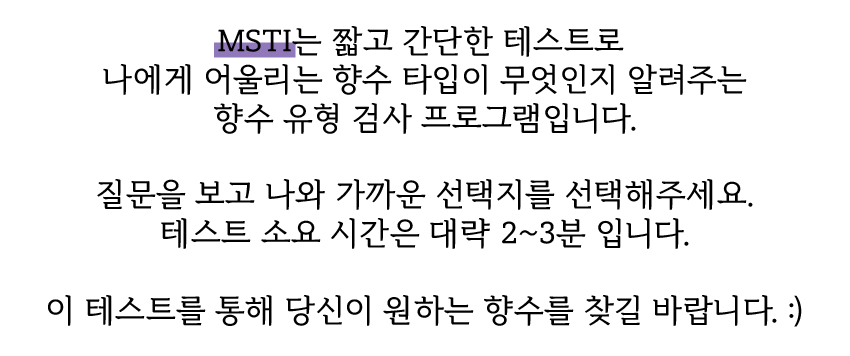
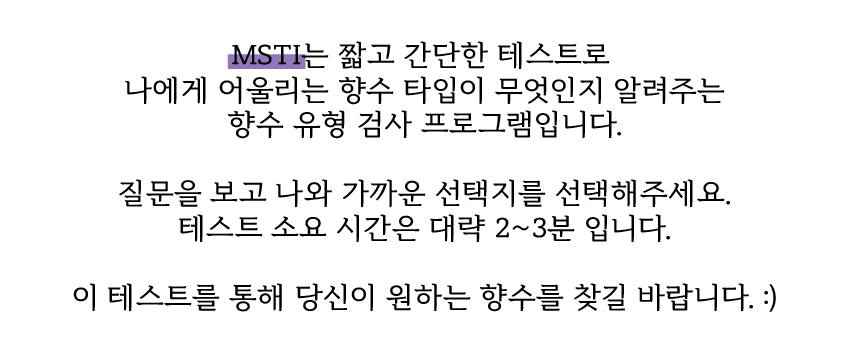
시작 화면 버튼 디자인 변경

Changed region(s): [[0.1224, 0.0618, 0.8871, 0.4017], [0.1224, 0.4944, 0.8871, 0.7107], [0.0612, 0.8034, 0.9482, 0.927]]

diff --git a/main.py b/main.py
@@ -42,7 +42,7 @@ class MainWindow(QMainWindow):
 
         # creating a button widget
         self.startBtn = QLabel('', self)
-        self.startBtn.setPixmap(QPixmap('image/TestStartBtn.png'))
+        self.startBtn.setPixmap(QPixmap('image/testStart_btn.png'))
         self.startBtn.resize(200, 75)
         self.startBtn.move(530, 380)
         self.startBtn.setAlignment(Qt.AlignCenter)
@@ -50,7 +50,7 @@ class MainWindow(QMainWindow):
         clickable(self.startBtn).connect(self.showChoose)
 
         self.howPlayBtn = QLabel('', self)
-        self.howPlayBtn.setPixmap(QPixmap('image/HowToPlayBtn.png'))
+        self.howPlayBtn.setPixmap(QPixmap('image/contents_btn.png'))
         self.howPlayBtn.resize(200, 75)
         self.howPlayBtn.move(240, 380)
         self.howPlayBtn.setAlignment(Qt.AlignCenter)
@@ -72,8 +72,8 @@ class MainWindow(QMainWindow):
         # creating a label widget
         self.contents = QLabel('', self.dialog)
         self.contents.setPixmap(QPixmap('image/contents.png'))
-        self.contents.resize(500, 210)
-        self.contents.move(5, 60)
+        self.contents.resize(530, 230)
+        self.contents.move(0, 40)
         self.contents.setAlignment(Qt.AlignCenter)
         self.contents.setScaledContents(1)  # 이미지 크기에 맞게 조정
 
@@ -82,7 +82,7 @@ class MainWindow(QMainWindow):
         self.dialog.setWindowTitle('MSTI')
         self.dialog.setWindowIcon(QIcon('image/icon.png'))
         self.dialog.setWindowModality(Qt.ApplicationModal)
-        self.dialog.resize(520, 330)
+        self.dialog.resize(520, 300)
         self.dialog.show()
 
 
